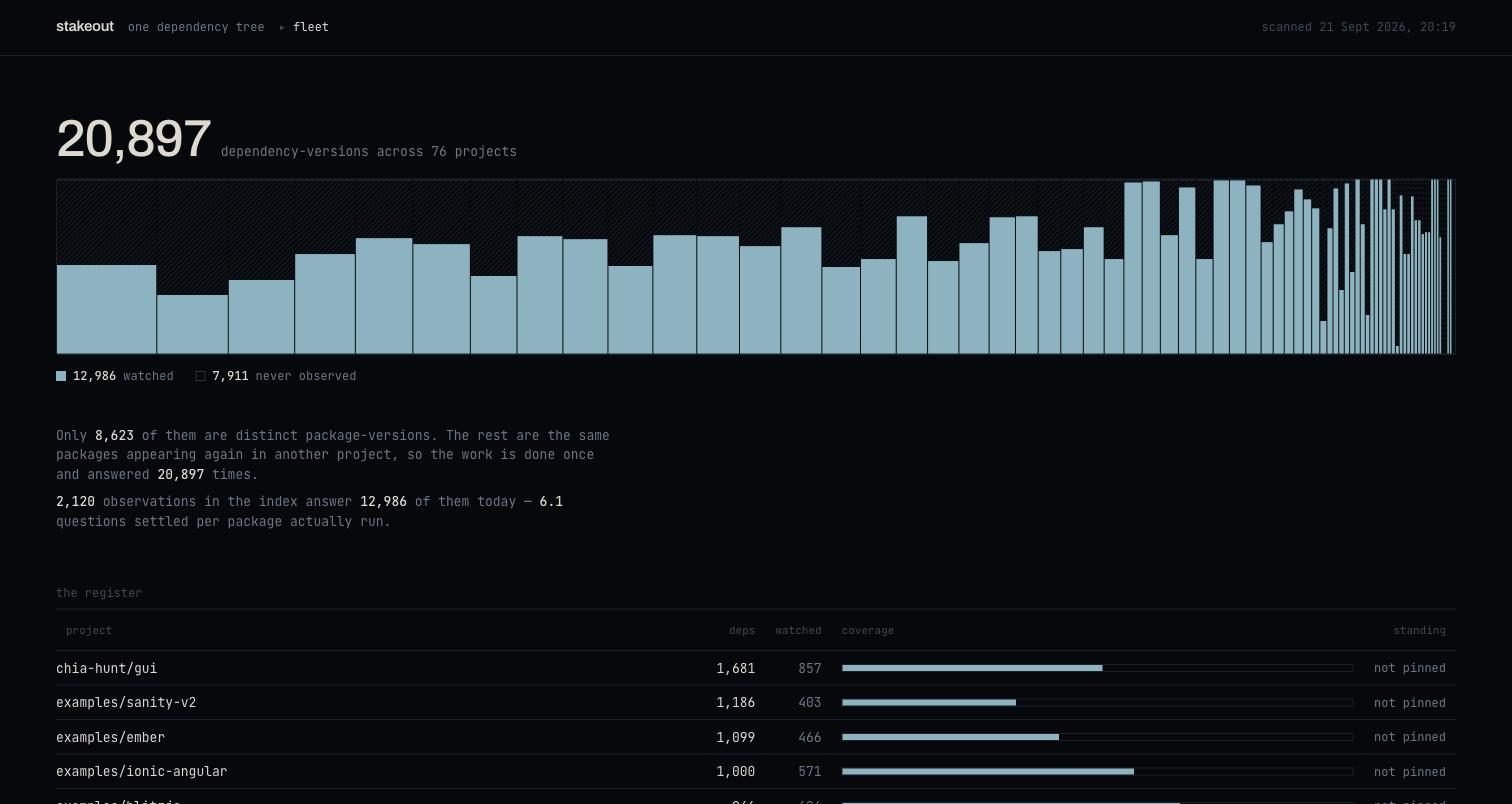
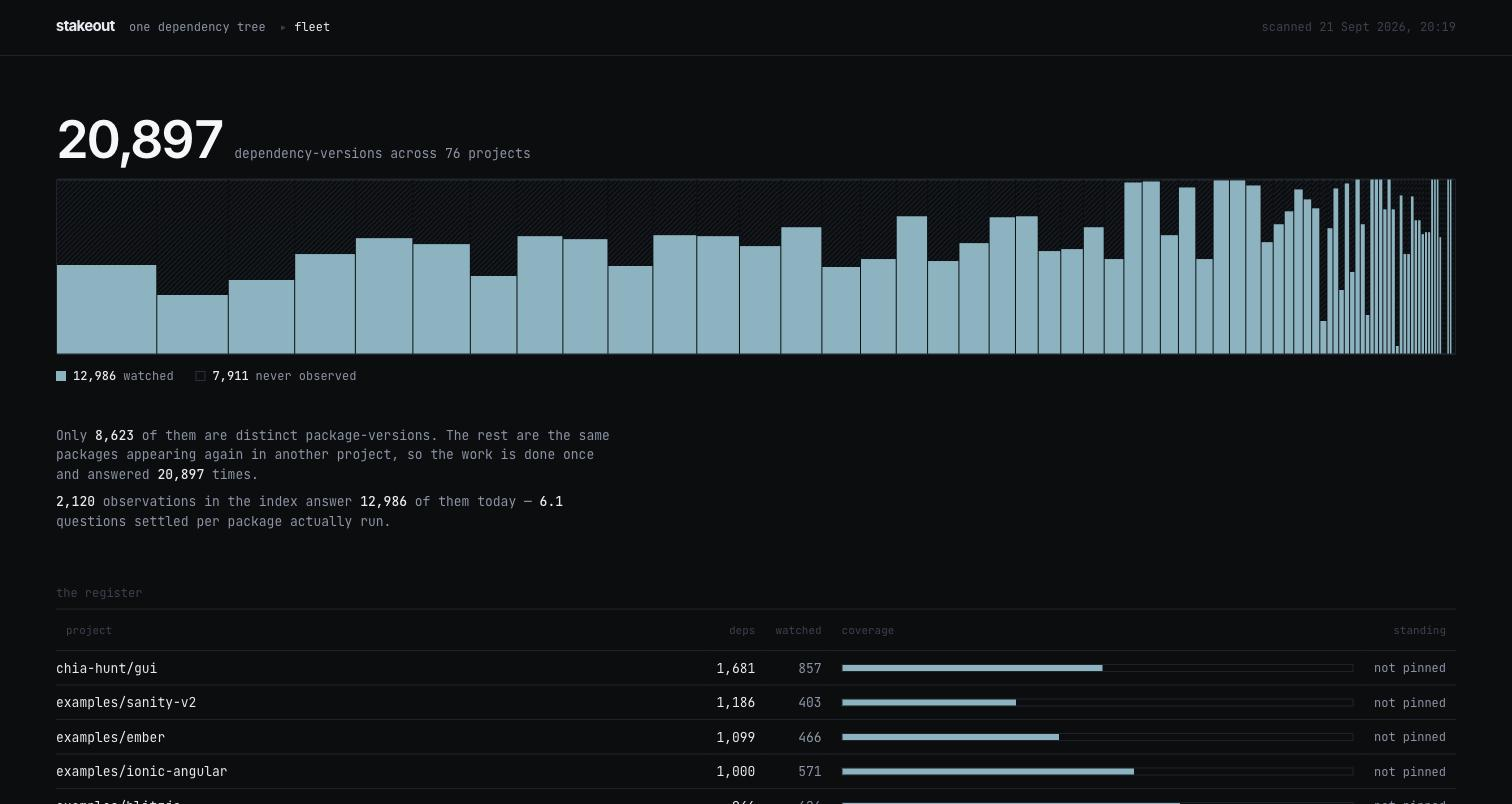
one product, one voice
The fleet page arrived with its own typeface, its own text colour and its own rust — three quiet
disagreements with the page a reviewer sees first. Two display faces across two screens of one
product is the clearest tell of something assembled rather than designed, and nobody can name what
is wrong; they just feel it.

Its tokens are the product's now, from public/style.css: Inter Tight, the graphite ground, the
silver, the grease red that differ/diff.js assigns by arithmetic, the verdigris that means nothing
changed. The hero number gets the landing h1's exact treatment — 600 weight and the brighter
headline white — so the two screens open the same way.

One addition, which belongs to this screen and is now available to both. The palette had a colour
for ALARMING, one for NOTABLE and one for NOTHING CHANGED, and none for *observed, and
unremarkable* — which is the majority state on this page and deserved a colour of its own rather
than borrowing one that already means something else.

27 suites, 340 checks, green.

Claude-Session: https://claude.ai/code/session_01JpGmWS643j9eVhpnW9xb1v

diff --git a/public/fleet.css b/public/fleet.css
@@ -23,21 +23,36 @@
  * near-black, arrows glued to link text. Each was considered and is a default rather than a choice.
  */
 
+/*
+ * One product, one voice.
+ *
+ * This page arrived with its own typeface, its own text colour and its own rust — three quiet
+ * disagreements with the page a reviewer sees first. Two display faces across two screens of one
+ * product is the clearest tell of something assembled rather than designed, and nobody can name
+ * what is wrong; they just feel it.
+ *
+ * So the tokens are the product's, from public/style.css, with one addition that belongs to this
+ * screen and is now available to both: `--watched`. The palette had a colour for ALARMING, for
+ * NOTABLE and for NOTHING CHANGED, and none for *observed, and unremarkable* — which is the
+ * majority state here and deserved a colour rather than borrowing one that means something else.
+ */
 :root {
-  --void:    #06080b;   /* the ground, and the colour of not knowing */
-  --raised:  #0d1217;
-  --rule:    #19212a;
-  --rule-lit:#27333f;
+  /* From the product. Cold graphite, not black: a lab, not a terminal theme. */
+  --void:     #0b0d10;
+  --raised:   #12151a;
+  --rule:     #1e232b;
+  --rule-lit: #2a313c;
 
-  --bone:    #ded9ce;   /* warm, against a cold ground */
-  --dim:     #6a7788;
-  --faint:   #3d4855;
+  --bone:  #e6eaf0;   /* the product's text colour */
+  --dim:   #8a94a6;
+  --faint: #39424f;   /* --quiet: the colour of nothing happening */
 
-  --watched: #82b4c2;   /* cold, deliberately unexciting */
-  --drift:   #c2543c;   /* the only saturated colour here */
-  --pinned:  #5e8f72;
+  /* Observed, and unremarkable. The state this page is mostly made of. */
+  --watched: #82b4c2;
+  --drift:   #e0574a;   /* --grease. Alarming, and assigned by arithmetic, never by a model. */
+  --pinned:  #57a773;   /* --verd. Nothing changed. */
 
-  --display: "Archivo", system-ui, sans-serif;
+  --display: "Inter Tight", system-ui, sans-serif;
   --mono: "JetBrains Mono", ui-monospace, Menlo, monospace;
 
   --gutter: clamp(16px, 4vw, 56px);
@@ -73,7 +88,7 @@ body {
 .bar__spacer { flex: 1; }
 
 .wordmark {
-  font: 600 15px/1 var(--display);
+  font: 700 15px/1 var(--display);
   letter-spacing: -0.015em;
   color: var(--bone);
   text-decoration: none;
@@ -110,10 +125,12 @@ body {
 .band { margin: clamp(32px, 7vh, 64px) 0 0; position: relative; }
 
 .band__head { display: flex; align-items: baseline; gap: 10px; flex-wrap: wrap; margin-bottom: 14px; }
+/* The product's display weight and its headline white — the same treatment as the landing h1. */
 .band__count {
-  font: 500 clamp(30px, 6vw, 52px)/1 var(--display);
+  font: 600 clamp(30px, 6vw, 52px)/1 var(--display);
   letter-spacing: -0.03em;
   font-variant-numeric: tabular-nums;
+  color: #f4f7fb;
 }
 .band__unit { color: var(--dim); }
 

diff --git a/public/fleet.js b/public/fleet.js
@@ -16,11 +16,11 @@ const num = (n) => Number(n).toLocaleString('en-US');
 
 const COLOUR = {
   watched: '#82b4c2',
-  drift: '#c2543c',
-  rule: '#19212a',
-  hatch: '#141c25',    // the hatching over what nobody watched — never a fill
-  ceiling: '#232e3a',  // where the tree would reach if all of it were known
-  void: '#06080b',
+  drift: '#e0574a',
+  rule: '#1e232b',
+  hatch: '#19202a',    // the hatching over what nobody watched — never a fill
+  ceiling: '#2a313c',  // where the tree would reach if all of it were known
+  void: '#0b0d10',
 };
 
 let segments = [];

diff --git a/public/fleet.html b/public/fleet.html
@@ -6,7 +6,7 @@
 <title>stakeout / fleet</title>
 <link rel="preconnect" href="https://fonts.googleapis.com">
 <link rel="preconnect" href="https://fonts.gstatic.com" crossorigin>
-<link href="https://fonts.googleapis.com/css2?family=Archivo:wght@400;500;600&family=JetBrains+Mono:wght@400;500&display=swap" rel="stylesheet">
+<link href="https://fonts.googleapis.com/css2?family=Inter+Tight:wght@400;500;600;700&family=JetBrains+Mono:wght@400;500;700&display=swap" rel="stylesheet">
 <link rel="stylesheet" href="fleet.css">
 </head>
 <body>
